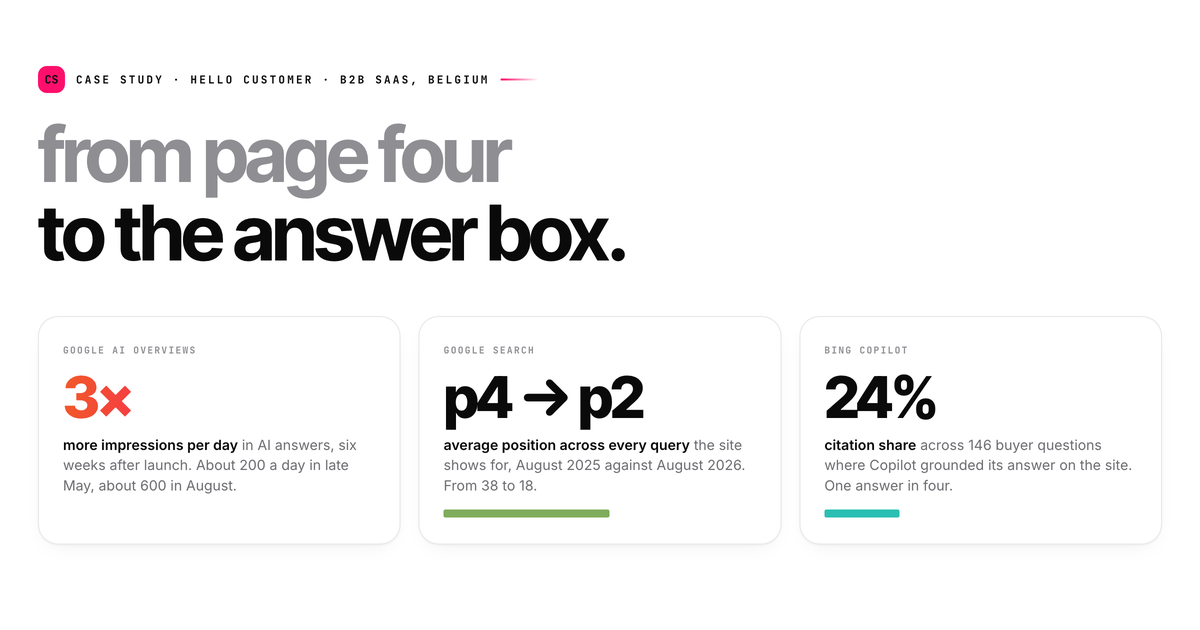
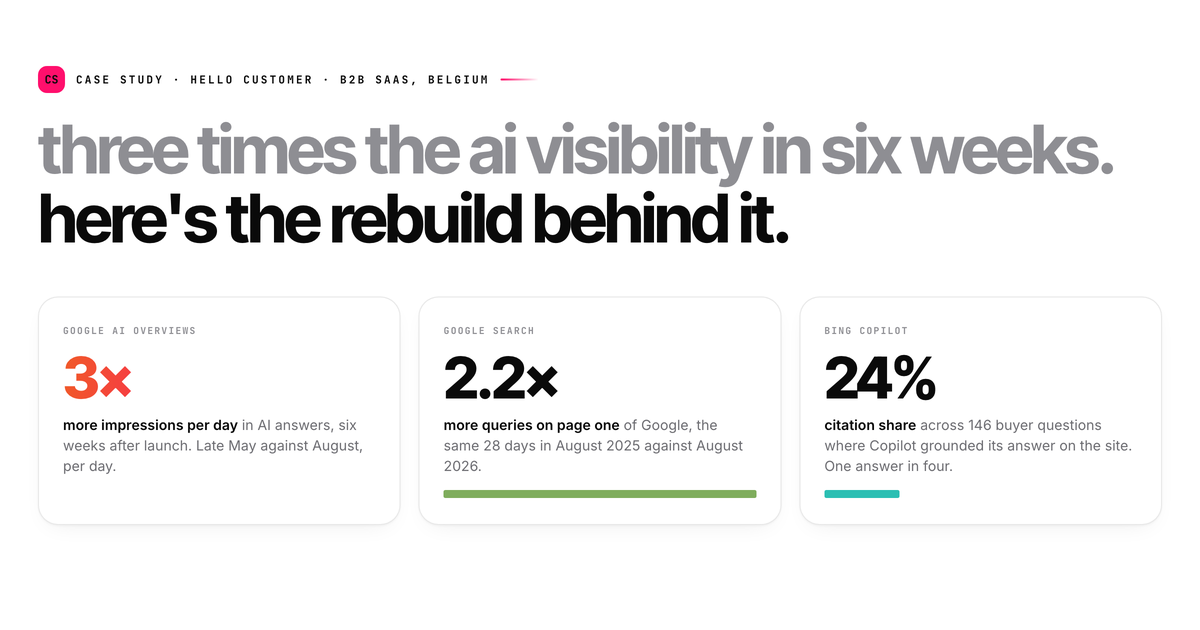
Case study review 15-16: screenshots in place, new title, hero stat swapped to 2.2x page-one queries
Anna's full review applied: no competitor names, no absolute AI impression
counts (chart indexed to the May average), Bing shown by theme instead of
per-question rows, rebuild section without page names or deletion
inventories, FAQ dropped, softer Google headline, four-beat timeline.

diff --git a/case-studies/hello-customer/index.html b/case-studies/hello-customer/index.html
@@ -191,7 +191,7 @@
   /* hero */
   .hero{padding:84px 0 60px;text-align:left}
   .hero .eyebrow{margin-bottom:22px}
-  .hero h1{max-width:1040px;margin-bottom:26px}
+  .hero h1{max-width:1100px;margin-bottom:26px;font-size:clamp(36px,5.6vw,74px)}
   .hero h1 .grey{color:var(--muted-2)}
   .hero .lede{max-width:720px;margin-bottom:34px}
   .hero-meta{display:flex;gap:28px;flex-wrap:wrap;margin-top:34px;padding-top:26px;border-top:1px solid var(--line)}
@@ -214,7 +214,7 @@
   .receipts{display:grid;grid-template-columns:repeat(2,minmax(0,1fr));gap:18px}
   .rcpt{background:#fff;border:1px solid var(--line);border-radius:20px;overflow:hidden;box-shadow:var(--shadow-lg);display:flex;flex-direction:column}
   .rcpt .shot{background:#0F0F10;position:relative;aspect-ratio:16/10;overflow:hidden}
-  .rcpt .shot img{width:100%;height:100%;object-fit:cover;object-position:top left}
+  .rcpt .shot img{width:100%;height:100%;object-fit:contain;background:#0F0F10}
   .rcpt .shot .ph{position:absolute;inset:0;display:flex;flex-direction:column;justify-content:center;padding:30px;color:#fff;gap:10px}
   .rcpt .shot .ph .q{font-family:var(--display);font-weight:700;font-size:22px;letter-spacing:-.03em;line-height:1.15}
   .rcpt .shot .ph .m{font-family:var(--mono);font-size:9.5px;letter-spacing:.14em;text-transform:uppercase;color:rgba(255,255,255,.55);font-weight:700}
@@ -389,12 +389,12 @@
 <section class="hero" id="top">
   <div class="wrap">
     <span class="eyebrow rv" style="--eb:var(--pink)"><i>cs</i>case study · hello customer · b2b saas, belgium</span>
-    <h1 class="rv"><span class="grey">from page four</span><br>to the answer box.</h1>
+    <h1 class="rv"><span class="grey">three times the ai visibility in six weeks.</span><br>here's the rebuild behind it.</h1>
     <p class="lede rv">Hello Customer is a voice of customer platform from Belgium. In the summer of 2026 I repositioned the brand, rebuilt the whole website in three languages with search engines and AI answer engines in the room, and then cleaned up everything around it. <b>This is what the first seven weeks look like, with the data.</b> The new site went live on 18 July 2026 and every number here was exported on 4 September, so read it as an early reading, not a final one. SEO compounds; this is the start of the curve.</p>
 
     <div class="trio rv">
       <div class="stat"><div class="k">google ai overviews</div><div class="v grad">3&times;</div><div class="d"><b>more impressions per day</b> in AI answers, six weeks after launch. Late May against August, per day.</div></div>
-      <div class="stat"><div class="k">google search</div><div class="v">p4 &rarr; p2</div><div class="d"><b>average position across every query</b> the site shows for, August 2025 against August 2026. From 38 to 18.</div><div class="bar" style="--c:var(--green);--w:53%"></div></div>
+      <div class="stat"><div class="k">google search</div><div class="v">2.2&times;</div><div class="d"><b>more queries on page one</b> of Google, the same 28 days in August 2025 against August 2026.</div><div class="bar" style="--c:var(--green);--w:100%"></div></div>
       <div class="stat"><div class="k">bing copilot</div><div class="v">24%</div><div class="d"><b>citation share</b> across 146 buyer questions where Copilot grounded its answer on the site. One answer in four.</div><div class="bar" style="--c:var(--teal);--w:24%"></div></div>
     </div>
 
@@ -415,33 +415,33 @@
     <div class="sec-head rv">
       <span class="eyebrow" style="--eb:var(--pink)"><i>01</i>the receipts</span>
       <h2>ask an ai about voice of customer platforms. hello customer is in the answer.</h2>
-      <p class="lede">Four screenshots from the first week of September 2026, unedited. The same questions in May came back with a different set of names.</p>
+      <p class="lede">Four screenshots taken on 28 August 2026, six weeks after launch, unedited. The same questions in May came back with a different set of names.</p>
     </div>
 
     <div class="receipts">
       <div class="rcpt wide rv">
-        <div class="shot">
+        <div class="shot" style="aspect-ratio:1600/935">
           <img src="img/google-alternatives.png" alt="Google AI Overview for a best-alternatives search naming Hello Customer in the enterprise section, with Hello Customer's own alternatives article as a source" loading="lazy" onerror="this.style.display='none';this.nextElementSibling.style.display='flex'">
           <div class="ph" style="display:none"><div class="m">google · ai overview</div><div class="q">"best alternatives to [the market leader]"</div><div class="ph-note">screenshot pending: img/google-alternatives.png</div></div>
         </div>
         <div class="cap"><span class="eng" style="--c:var(--yellow)">google</span><p><b>"best alternatives to [the market leader]."</b> Listed in the enterprise CX section next to the category's biggest names, and the third source card is Hello Customer's own alternatives article, published on 3 August. The comparison page did exactly the job it was built for.</p></div>
       </div>
       <div class="rcpt rv">
-        <div class="shot">
+        <div class="shot" style="aspect-ratio:1600/521">
           <img src="img/google-good-nps.png" alt="Google AI Overview for 'what is a good nps' with the definition sourced to Hello Customer" loading="lazy" onerror="this.style.display='none';this.nextElementSibling.style.display='flex'">
           <div class="ph" style="display:none"><div class="m">google · ai overview</div><div class="q">"what is a good nps"</div><div class="ph-note">screenshot pending: img/google-good-nps.png</div></div>
         </div>
         <div class="cap"><span class="eng" style="--c:var(--yellow)">google</span><p><b>"what is a good nps."</b> The definition sentence is sourced "Hello Customer +4". This is one of the highest-volume questions in the category, and the site's rewritten NPS cluster is the reference.</p></div>
       </div>
       <div class="rcpt rv">
-        <div class="shot">
+        <div class="shot" style="aspect-ratio:1600/851">
           <img src="img/google-choose-voc-platform.png" alt="Google AI Overview for 'how to choose voice of customer platform' with the opening line cited to Hello Customer" loading="lazy" onerror="this.style.display='none';this.nextElementSibling.style.display='flex'">
           <div class="ph" style="display:none"><div class="m">google · ai overview</div><div class="q">"how to choose voice of customer platform"</div><div class="ph-note">screenshot pending: img/google-choose-voc-platform.png</div></div>
         </div>
         <div class="cap"><span class="eng" style="--c:var(--yellow)">google</span><p><b>"how to choose voice of customer platform."</b> The opening line of the answer is cited to Hello Customer, first source card. The category we repositioned into, answered by the site we built for it.</p></div>
       </div>
       <div class="rcpt wide rv">
-        <div class="shot">
+        <div class="shot" style="aspect-ratio:1600/1344">
           <img src="img/chatgpt-best-voc-platform.png" alt="ChatGPT answer to 'what is best voice of customer platform' with Hello Customer in the shortlist beside the largest enterprise suites" loading="lazy" onerror="this.style.display='none';this.nextElementSibling.style.display='flex'">
           <div class="ph" style="display:none"><div class="m">chatgpt</div><div class="q">"what is best voice of customer platform"</div><div class="ph-note">screenshot pending: img/chatgpt-best-voc-platform.png</div></div>
         </div>
